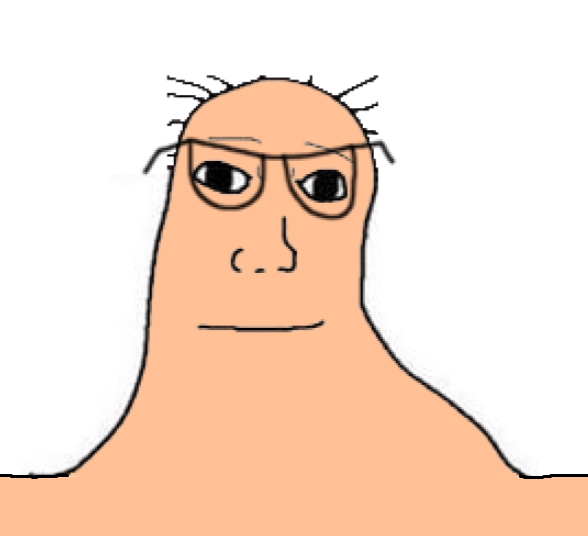
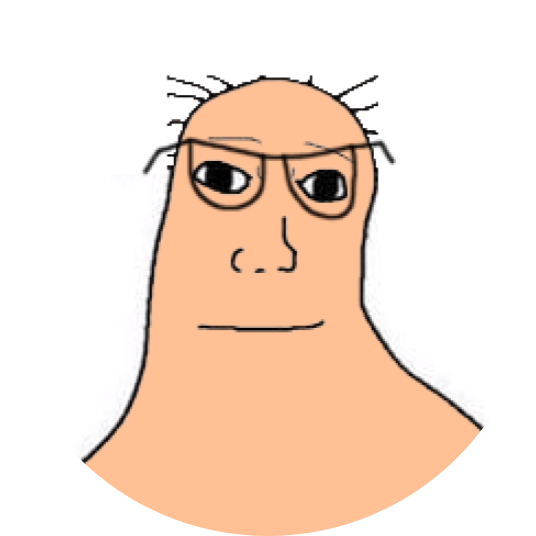
Update
changed image to be circular
other html css edits

Changed region(s): [[0.0, 0.1194, 1.0, 1.0], [0.3284, 0.597, 0.4478, 0.6269], [0.6866, 0.1194, 0.7164, 0.1493]]

diff --git a/index.html b/index.html
@@ -10,15 +10,15 @@
 	</head>
 	<body>
 		<header>
-			<h1>InfernoBolt1's Website</h1>
+			<h1>InfernoBolt1</h1>
 		</header>
 		<main>
 			<div class="card">
-				<img src="images/image.png" alt="Banner" class="banner"/>
+				<img src="images/image.png" alt="profile picture" class="pfp"/>
 				<p>Welcome to Inferno's Website!</p>
 				<div class="buttons">
-					<a href="https://youtube.com/@infernobolt1" target="_blank" class="btn">Check out my YouTube :)</a>
-					<a href="boo.html" target="_blank" class="btn boo">Whats here? No one knows.</a>
+					<a href="https://youtube.com/@infernobolt1" target="_blank" class="btn">Is that my YouTube?</a>
+					<a href="boo.html" target="_blank" class="btn boo">Whats here? Who knows.</a>
 				</div>
 			</div>
 		</main>

diff --git a/style.css b/style.css
@@ -39,10 +39,9 @@ main {
   width: 400px;
 }
 
-.banner {
-  max-width: 100%;
+.pfp {
+  max-width: 90%;
   height: auto;
-  border-radius: 1rem;
   margin-bottom: 1rem;
 }
 
